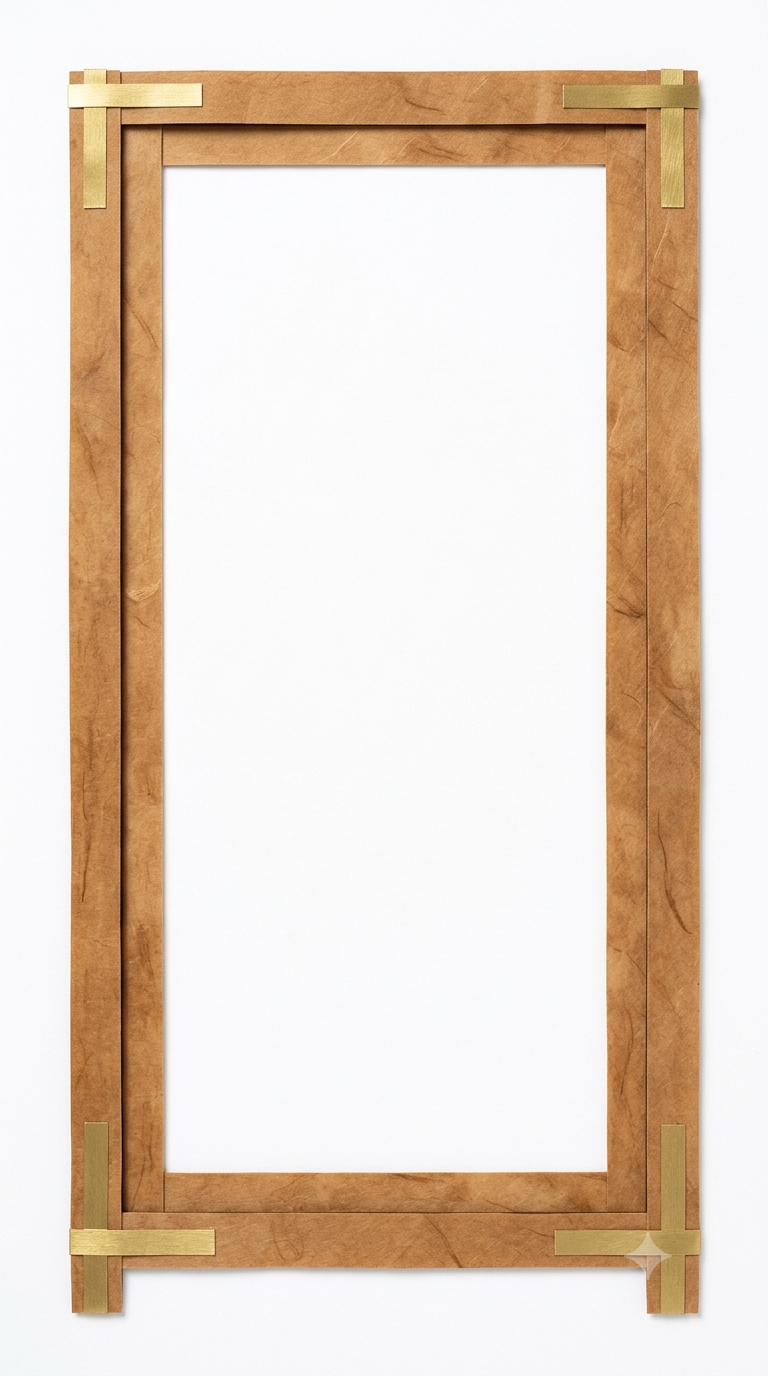
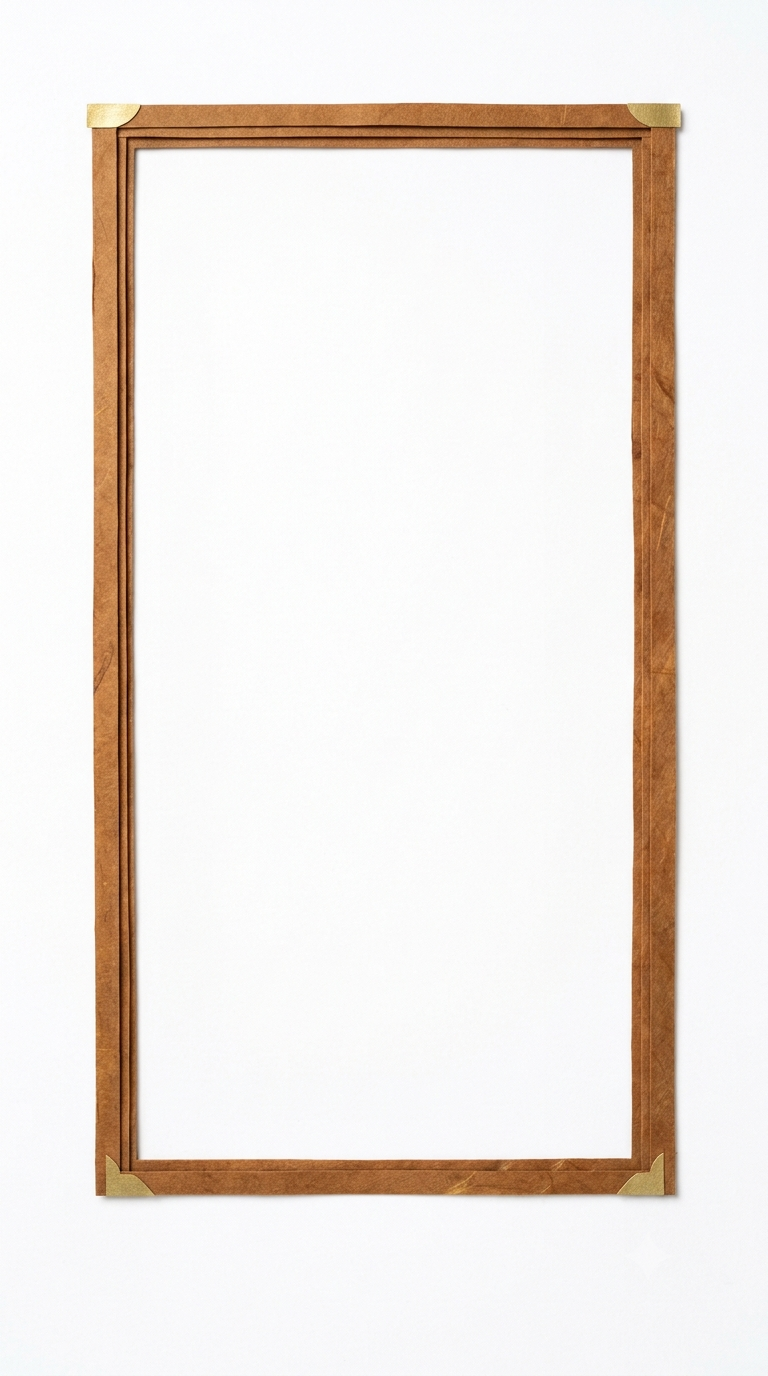
Rahmen v7 uebernehmen: randlos war der falsche Hebel, plus Header-Fix
Zwei Testrenders zuvor durchgerechnet und verworfen: v5 hatte gespreizte
Fuesse, die die automatische Konturmessung auf 100% der Leinwand aufblaehten
(dafuer gab es bereits den robusten Fix in process_assets.js). v6 war
randlos bis zur Bildkante, kam aber als doppelter Gehrungsrahmen statt
einem einzelnen Steg zurueck -- und brachte trotz sichtbar duennerer
Einzelstege netto WENIGER Regalbreite als der bestehende v4-Rahmen.

Der Grund fuer v6s Regression war die randlos-Vorgabe selbst, nicht nur ihre
missgluckte Umsetzung: sobald ein Rahmen randlos bis zur Bildkante reicht,
nimmt das der Pipeline jeden Spielraum zum Hochskalieren -- der Skalierfaktor
faellt unter 1 statt darueber, und der Effekt duennerer Pfosten wird von der
erzwungenen Verkleinerung wieder aufgefressen. Ein Rahmen mit gleichmaessigem
Rand auf allen vier Seiten laesst diesen Spielraum, und im ueblichen Fall
kuerzt sich die Rahmenbreite dann komplett aus der Rechnung -- nur noch das
Nische-zu-Rahmen-Verhaeltnis zaehlt.

v7 kehrt deshalb zu "generous even padding on all four sides" zurueck (wie
jedes andere Asset im Katalog) und verlangt zusaetzlich explizit einen
einzelnen Steg statt eines doppelten/verschachtelten Rahmens. Gemessen:
Regalbreite 280 -> 316 CSS-Pixel (+13%), das erste Mal seit dem Stilwechsel,
dass ein Nachrender tatsaechlich mehr Platz bringt statt weniger.

Ein schmalerer Rahmen legte einen zweiten, bisher unsichtbaren Fehler frei:
[…]

Changed region(s): [[0.0625, 0.0312, 0.9375, 0.9688]]

diff --git a/src/main.ts b/src/main.ts
@@ -1082,8 +1082,11 @@ export class PreloadScene extends Phaser.Scene {
 export class GameScene extends Phaser.Scene {
   private shelves: Shelf[] = [];
   private selected: { shelfIdx: number; slotIdx: number; item: GoodsItem } | null = null;
-  private cavityWidth = 0;
-  private cavityCenterX = 0;
+  // Oeffentlich lesbar, weil UIScene die Header-Spalten daran vorbei positioniert
+  // (siehe UIScene.create) -- der Rahmenpfosten sitzt je nach Render an einer
+  // anderen Stelle, ein fester Abstand vom Canvasrand reicht nicht garantiert.
+  public cavityWidth = 0;
+  public cavityCenterX = 0;
   private cavityTop = 0;
   private cavityHeight = 0;
 
@@ -1468,17 +1471,49 @@ export class UIScene extends Phaser.Scene {
     };
 
     // Label und Wert teilen sich dieselbe x-Mitte und stehen beide auf
-    // Origin 0.5 -- damit sitzt die Zahl exakt unter der Wortmitte.
-    const stack = (cx: number, text: string, initial: string) => {
-      this.add.text(cx, labelY, text, { ...labelStyle(13 * uiScale, LABEL), ...halo }).setOrigin(0.5);
-      return this.add.text(cx, valueY, initial, { ...valueStyle(24 * uiScale, VALUE), ...halo }).setOrigin(0.5);
+    // Origin 0.5 -- damit sitzt die Zahl exakt unter der Wortmitte. stack()
+    // erzeugt zunaechst an x=0 und liefert die echte gerenderte Breite mit
+    // zurueck, weil die Aussenspalten sie gleich brauchen -- eine angenommene
+    // Boxbreite waere entweder zu grosszuegig (Text sitzt naeher am Rahmen als
+    // noetig) oder zu knapp (Text ragt trotzdem in die Nische).
+    const stack = (text: string, initial: string) => {
+      const label = this.add.text(0, labelY, text, { ...labelStyle(13 * uiScale, LABEL), ...halo }).setOrigin(0.5);
+      const value = this.add.text(0, valueY, initial, { ...valueStyle(24 * uiScale, VALUE), ...halo }).setOrigin(0.5);
+      const halfWidth = Math.max(label.width, value.width) / 2;
+      const setX = (cx: number) => { label.setX(cx); value.setX(cx); };
+      return { value, halfWidth, setX };
     };
 
-    // Aussenspalten so breit wie noetig, damit die Bloecke nicht am Rand kleben
-    const colW = 78 * uiScale;
-    this.scoreTxt = stack(pad + colW / 2, 'SCORE', '0');
-    stack(width / 2, 'TEA BAR', `${State.currentLevel}`);
-    this.movesTxt = stack(width - pad - colW / 2, 'MOVES', `${State.moves}`);
+    const scoreCol = stack('SCORE', '0');
+    const movesCol = stack('MOVES', `${State.moves}`);
+    stack('TEA BAR', `${State.currentLevel}`).setX(width / 2);
+
+    let leftColX = pad + scoreCol.halfWidth;
+    let rightColX = width - pad - movesCol.halfWidth;
+
+    // Der Rahmenpfosten sitzt je nach Render an einer anderen Stelle -- bei
+    // einem schmaleren Rahmen (mehr Aussenrand um das Moebel) ruecken die
+    // Pfosten weiter nach innen, genau dorthin, wo SCORE/MOVES bei festem
+    // Randabstand landen wuerden. Die Spalten weichen deshalb nach aussen aus,
+    // sobald der gemessene Nischenrand naeher als die halbe Textbreite plus
+    // Sicherheitsabstand liegt -- ueber dem massiven Pfosten liest sich der
+    // Text dank Halo weiterhin klar, genau auf der Kante zum Hohlraum nicht.
+    const gs = this.scene.get('GameScene') as GameScene;
+    if (gs.cavityWidth > 0) {
+      const gap = 10 * uiScale;
+      const cavityLeft = gs.cavityCenterX - gs.cavityWidth / 2;
+      const cavityRight = gs.cavityCenterX + gs.cavityWidth / 2;
+      leftColX = Math.min(leftColX, cavityLeft - scoreCol.halfWidth - gap);
+      rightColX = Math.max(rightColX, cavityRight + movesCol.halfWidth + gap);
+    }
+    // Nie ueber den Canvasrand hinaus, auch wenn die Nische das nahelegen wuerde
+    leftColX = Math.max(leftColX, scoreCol.halfWidth + 4 * uiScale);
+    rightColX = Math.min(rightColX, width - movesCol.halfWidth - 4 * uiScale);
+
+    scoreCol.setX(leftColX);
+    movesCol.setX(rightColX);
+    this.scoreTxt = scoreCol.value;
+    this.movesTxt = movesCol.value;
 
     // Booster-Reihe, ebenfalls ohne Tray-Karte
     const boosterSize = 52 * uiScale;

diff --git a/src/item_offsets.generated.ts b/src/item_offsets.generated.ts
@@ -29,17 +29,17 @@ export const BG_CAVITY_RATIOS: Record<string, number> = {
   bg_kissa_niche_wide: 0.8167,
   bg_kissa_room: 0.3715,
   bg_plaster: 0.9306,
-  bgl_niche_frame: 0.5729
+  bgl_niche_frame: 0.6484
 };
 
 // Lichte Nische als Rechteck in Bildanteilen: x ist die Mitte, y die Oberkante.
 export const BG_CAVITY_RECTS: Record<string, { x: number; y: number; w: number; h: number }> = {
-  bgl_niche_frame: { x: 0.5026, y: 0.1228, w: 0.5729, h: 0.7289 }
+  bgl_niche_frame: { x: 0.5013, y: 0.1097, w: 0.6484, h: 0.7326 }
 };
 
 // Aeussere Kontur eines freistehenden Rahmens in Bildanteilen.
 export const BG_FRAME_RECTS: Record<string, { x: number; y: number; w: number; h: number }> = {
-  bgl_niche_frame: { x: 0.5052, y: 0.0496, w: 0.8285, h: 0.9124 }
+  bgl_niche_frame: { x: 0.5042, y: 0.0744, w: 0.7653, h: 0.9147 }
 };
 
 // Auflageflaeche eines Regalbretts als Anteil seiner Bildhoehe.

diff --git a/CLAUDE.md b/CLAUDE.md
@@ -233,6 +233,27 @@ Overhead photograph of a real hand-cut washi paper collage of a single long hori
 
 **Negativ fuer beide:** das v4-Item-Negativ, ergaenzt um: back panel, wall, doors, glass, shelves inside, centre post, crossbar, brackets, screws, objects on the shelf, plants, books
 
+### Rahmen v7 -- randlos war der falsche Hebel
+
+Ersetzt `bgl_niche_frame` aus v4. Drei Zwischenversuche, alle durchgerechnet statt nur angeschaut, bevor verworfen:
+
+- **v5** (Einzelsteg, deutlich duenner): Nische zu Rahmen 68 % auf 74 % verbessert -- aber gespreizte Fuesse unter der unteren Leiste haben die automatische Konturmessung auf 100 % der Leinwand aufgeblaeht (siehe naechster Abschnitt zum Pipeline-Fix). Verworfen.
+- **v6** (randlos, exakt bis zur Bildkante): brachte einen doppelten Gehrungsrahmen (zwei ineinander verschachtelte Stege mit Diagonalverbindung an den Ecken) statt eines einzelnen Stegs, und netto *weniger* Regalbreite als v4 trotz duennerer Einzelstege. Verworfen.
+- **v7** (siehe unten): uebernommen.
+
+**Die randlos-Vorgabe war der eigentliche Fehler, nicht nur v6s Umsetzung davon.** `k = min(H/(frame.h*sourceH), W/(frame.w*sourceW))` -- die Bildschirmhoehe ist 2400 Geraetepixel, die Bildbreite 1236, das Seitenverhaeltnis der Renders liegt aber konstant bei rund 1440x2580 (FRAME_WIDTH ist fix, das Modell liefert zuverlaessig nahe 9:16). Ein Rahmen, der randlos bis zur Bildkante reicht (`frame.h = 1`), nimmt der Pipeline jeden Spielraum zum Hochskalieren -- `k` faellt unter 1, und der Effekt duennerer Pfosten wird von der erzwungenen Verkleinerung wieder aufgefressen. Ein Rahmen mit gleichmaessigem Rand auf allen vier Seiten (wie jedes andere Asset im Katalog) laesst der Pipeline diesen Spielraum, und im ueblichen Fall (Rahmen-Seitenverhaeltnis naeher an 1 als an der Bildschirmdiagonale) wird die Bildbreite zur bindenden Groesse -- dort kuerzt sich `frame.w` aus der Rechnung komplett heraus, nur noch die Pfostenduenne (Nische-zu-Rahmen-Verhaeltnis) zaehlt. Deshalb steht in v7 wieder "generous even padding on all four sides" statt "flush against the very top/bottom edge".
+
+Gemessen, nicht geschaetzt: v4 kam bei 280 CSS-Pixel Regalbreite heraus (Nische zu Rahmen 69 %, Hoehe 91 %), v7 bei 316 (85 %, 91 %) -- ein Plus von 13 %, das erste Mal seit dem Stilwechsel, dass ein Nachrender tatsaechlich mehr Platz bringt statt weniger.
+
+**bgl_niche_frame (v7):**
+Overhead photograph of a real hand-cut washi paper collage of a tall freestanding display cabinet, a physical artwork made of exactly four separate strips of Japanese kozo paper cut with a blade and stacked to form a single flat frame outline, two slender vertical side posts and one slender horizontal top rail and one slender horizontal bottom rail, only one strip per side with nothing doubled, nested, or mitred behind it -- a plain flat outline, never a picture-frame mat or bevel construction and never two frames nested inside each other, each strip no wider than one fifteenth of the cabinet's own overall width, the strips overlapping at the four corners with a crisp hairline shadow where one lies over the next, the open inner cavity dominating the composition and showing the plain white background straight through it, the cavity at least 90% of the cabinet's own width and at least 90% of its own height so the frame reads as a thin outline sketch and never as a solid block of wood, the bottom rail is a single straight horizontal strip and the absolute lowest point of the object with nothing extending below it -- no feet, no legs, no dangling tabs, no splayed extensions past any of the four strips, absolutely no back panel and no shelves and no crossbars and no centre post and no doors inside the cavity and no shadow cast into it, the paper a warm aged cedar brown of medium tone roughly one third as bright as fresh white paper and never pale, one small brushed brass gold paper accent at each of the four corners no larger than the frame strip itself, every cut edge showing the tiny nicks and slight wobble of a real hand-held knife and never a perfectly smooth machine line, visible long kozo fibres and gentle mottling in every sheet, absolutely no painted shading and no gradient within a sheet, no white or near-white areas anywhere on the cabinet itself, single isolated object, lit by soft even frontal light with no shadow falling onto the background, shot straight down and perfectly square to the camera, centered on a portrait 9:16 canvas with generous even padding on all four sides, pure solid white background (#FFFFFF), sharp silhouette edge definition, 8k resolution --style raw
+
+**Negativ fuer v7:** double frame, nested frame, picture frame mat, beveled inset, mitred inner border, rabbet joint, layered border, second inner frame outline, 3d depth bevel, feet, legs, dangling tabs, splayed extensions, protruding elements below the frame, uneven bottom edge, thick frame, wide border, chunky posts, heavy solid wood, massive frame, bulky corner brackets, large brass ornament, plus das v4-Item-Negativ.
+
+**Offen:** v7 hat noch eine sehr feine zweite Akzentlinie parallel innerhalb jedes Stegs -- kein Spalt, kein durchscheinender Hintergrund wie bei v6, nur eine Linie *innerhalb* eines durchgehenden Stegs. Fuer die Nischenvermessung irrelevant, optisch ein kleiner Rest gegenueber der angefragten reinen Einzellinie. Kein weiterer Versuch geplant, das Risiko einer schlechteren Zufallsvariante (siehe v6) wiegt schwerer als der kosmetische Gewinn.
+
+**Header folgt der gemessenen Nische, nicht mehr einem festen Randabstand.** SCORE/MOVES sassen bisher auf `pad` von der Canvaskante, unabhaengig davon, wo der Rahmenpfosten tatsaechlich liegt. Bei v4s breiterem Rahmen fiel das nicht auf, bei v7s schmalerem lag der Pfosten genau dort, wo der Text saemtlicher Vorgaenger-Header stand. `UIScene.create` liest jetzt `GameScene.cavityWidth`/`cavityCenterX` (dafuer oeffentlich statt privat) und schiebt die Aussenspalten so weit nach aussen, bis sie den gemessenen Nischenrand um die tatsaechliche Textbreite (nicht eine angenommene Boxbreite) plus Sicherheitsabstand verfehlen -- gedeckelt an der Canvaskante. Der Rahmen-Halo-Effekt haelt den Text danach so oder so lesbar, aber ueber massivem Holz statt genau auf der Kante zum Hohlraum liest er sich sauberer.
+
 ### Hintergrund fuer Reve
 
 Reve nimmt keine Midjourney-Flags und hat kein eigenes Negativfeld -- Ausschluesse gehoeren als Satz in den Prompt, das Seitenverhaeltnis wird in der Oberflaeche gesetzt (9:16). Deshalb Prosa statt Stichwortkette:
